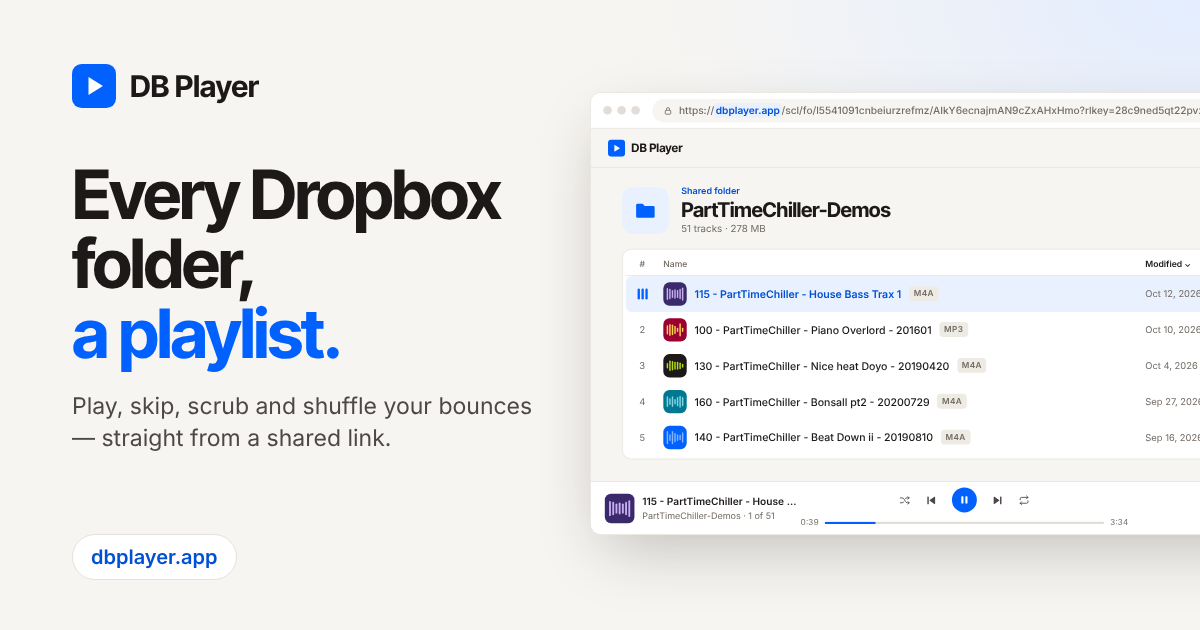
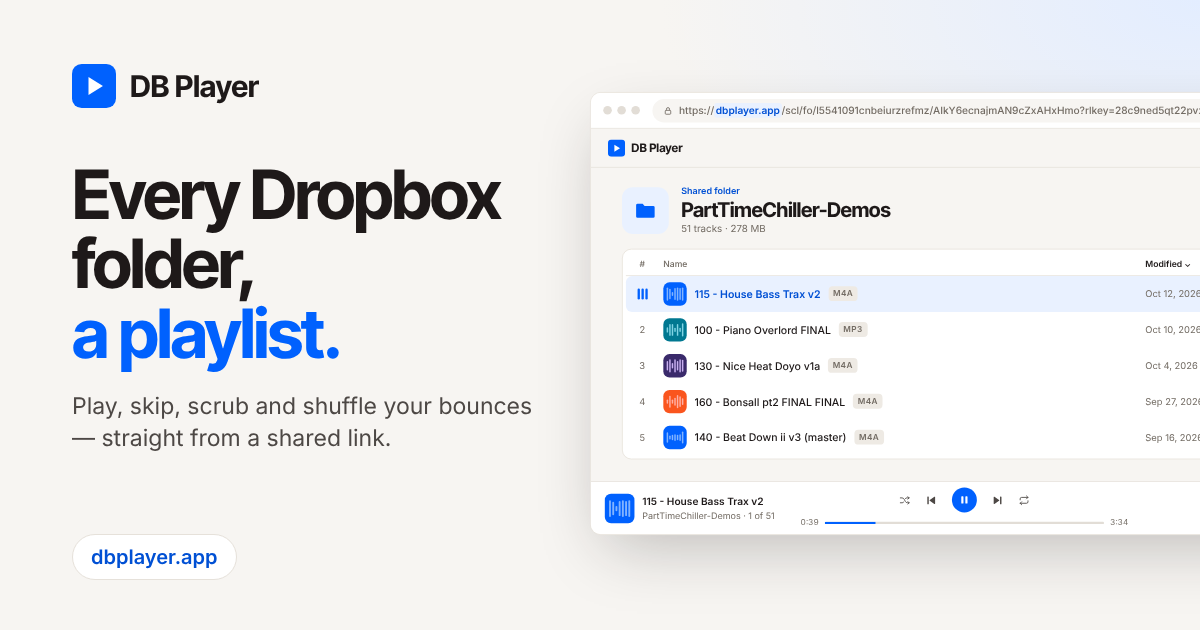
Use producer-style working titles in the home page preview
Drop the artist name and old date stamps from the demo track names in
favour of BPM + title + version tags (v2, v1a, FINAL, FINAL FINAL,
v3 (master)), and regenerate the share image to match.

Claude-Session: https://claude.ai/code/session_01WwXCWm9D1ozU66ouJMCCNc

Changed region(s): [[0.555, 0.4524, 0.8325, 0.7238], [0.6167, 0.5127, 0.8325, 0.5429], [0.4933, 0.7841, 0.6475, 0.8444]]

diff --git a/src/components/HeroPreview.tsx b/src/components/HeroPreview.tsx
@@ -8,11 +8,11 @@ import { FolderIcon, Logo, NextIcon, PauseIcon, PrevIcon, RepeatIcon, ShuffleIco
 
 // `daysAgo` keeps the Modified column looking fresh: dates are relative to today.
 const TRACKS = [
-  { name: '115 - PartTimeChiller - House Bass Trax 1.m4a', daysAgo: 1, size: '3.8 MB', len: 214 },
-  { name: '100 - PartTimeChiller - Piano Overlord - 201601.mp3', daysAgo: 3, size: '6.7 MB', len: 263 },
-  { name: '130 - PartTimeChiller - Nice heat Doyo - 20190420.m4a', daysAgo: 9, size: '1.3 MB', len: 98 },
-  { name: '160 - PartTimeChiller - Bonsall pt2 - 20200729.m4a', daysAgo: 16, size: '2.0 MB', len: 151 },
-  { name: '140 - PartTimeChiller - Beat Down ii - 20190810.m4a', daysAgo: 27, size: '2.0 MB', len: 147 },
+  { name: '115 - House Bass Trax v2.m4a', daysAgo: 1, size: '3.8 MB', len: 214 },
+  { name: '100 - Piano Overlord FINAL.mp3', daysAgo: 3, size: '6.7 MB', len: 263 },
+  { name: '130 - Nice Heat Doyo v1a.m4a', daysAgo: 9, size: '1.3 MB', len: 98 },
+  { name: '160 - Bonsall pt2 FINAL FINAL.m4a', daysAgo: 16, size: '2.0 MB', len: 151 },
+  { name: '140 - Beat Down ii v3 (master).m4a', daysAgo: 27, size: '2.0 MB', len: 147 },
 ];
 
 function recentDate(daysAgo: number): string {
